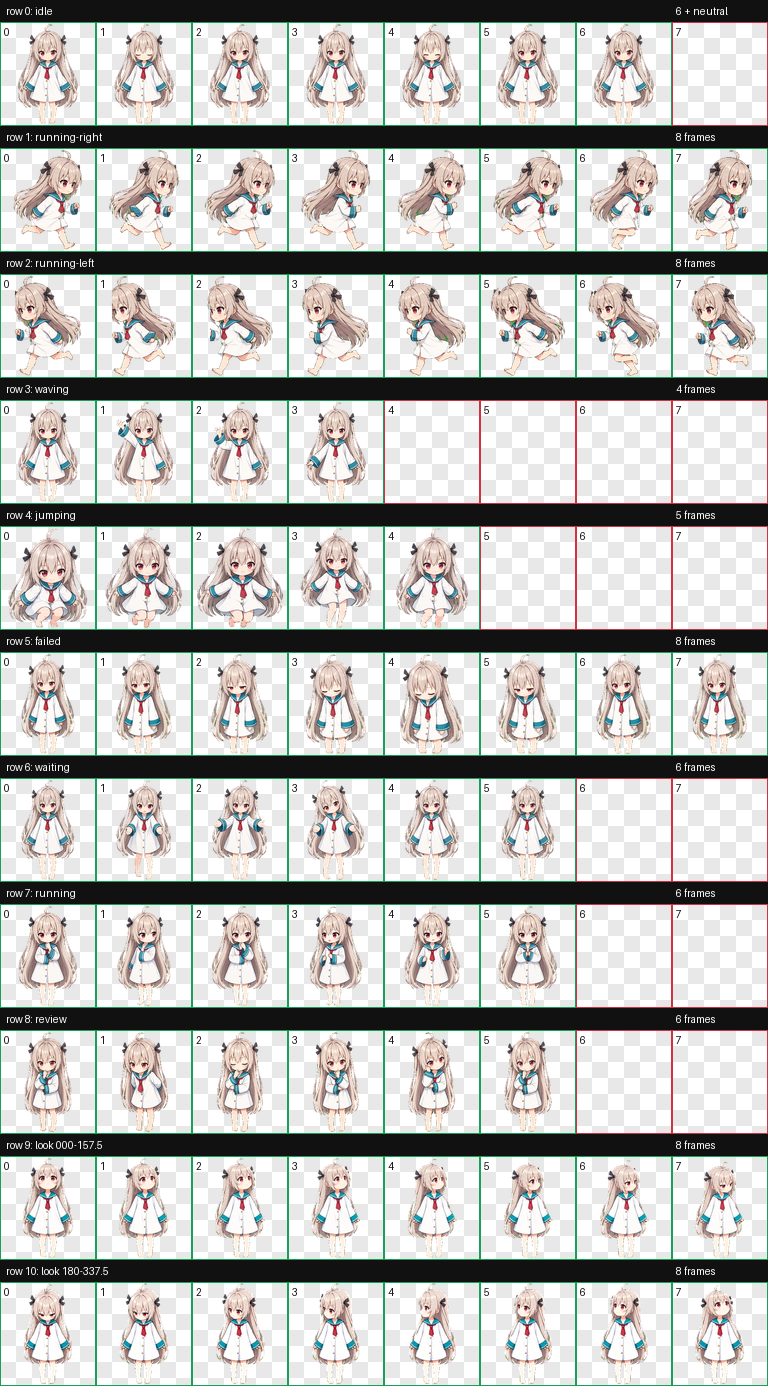
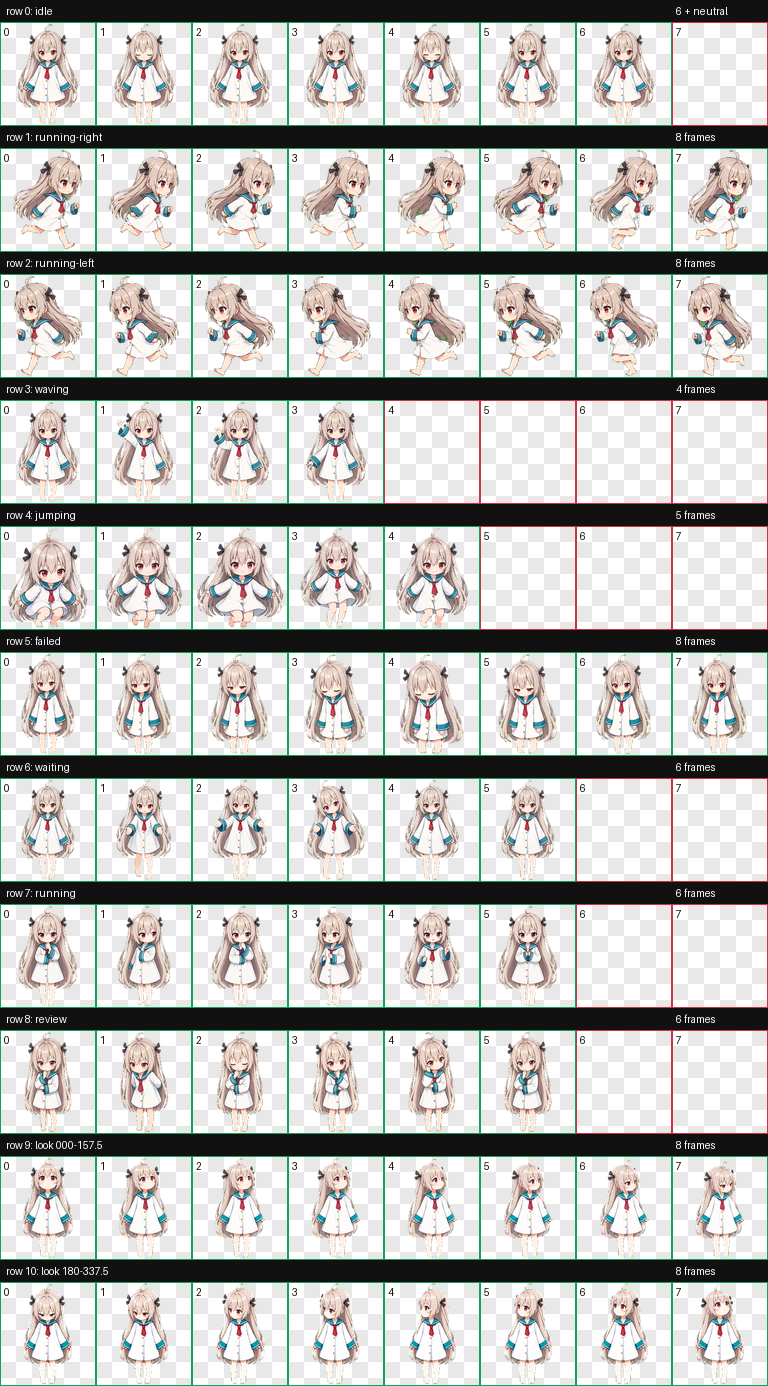
Rebuild running-left animation from stable frames

Changed region(s): [[0.0, 0.1861, 0.5, 0.2792], [0.625, 0.1861, 1.0, 0.2792]]

diff --git a/qa/validate_running_left_edges.py b/qa/validate_running_left_edges.py
@@ -7,7 +7,7 @@ import sys
 from collections import deque
 from pathlib import Path
 
-from PIL import Image
+from PIL import Image, ImageChops, ImageOps
 
 
 CELL_WIDTH = 192
@@ -77,11 +77,22 @@ def main() -> int:
                 if residue:
                     errors.append(f"running-left frame 7: {residue} residual alpha pixels in artifact zone={zone}")
 
+        running_right = image.crop(
+            (
+                column * CELL_WIDTH,
+                CELL_HEIGHT,
+                (column + 1) * CELL_WIDTH,
+                2 * CELL_HEIGHT,
+            )
+        )
+        if ImageChops.difference(frame, ImageOps.mirror(running_right)).getbbox() is not None:
+            errors.append(f"running-left frame {column}: does not mirror running-right counterpart")
+
     if errors:
         print("\n".join(errors), file=sys.stderr)
         return 1
 
-    print("PASS running-left frames contain no detached sprite fragments")
+    print("PASS running-left frames mirror running-right frames without detached fragments")
     return 0
 
 
